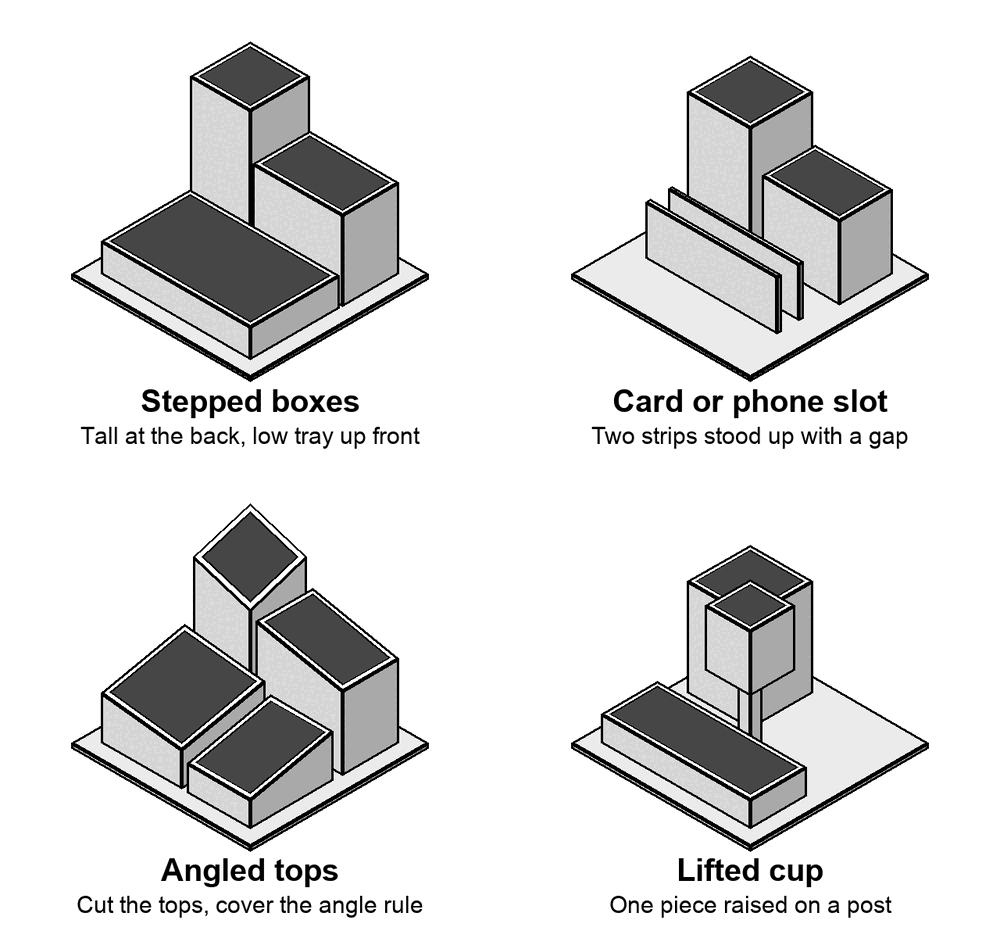
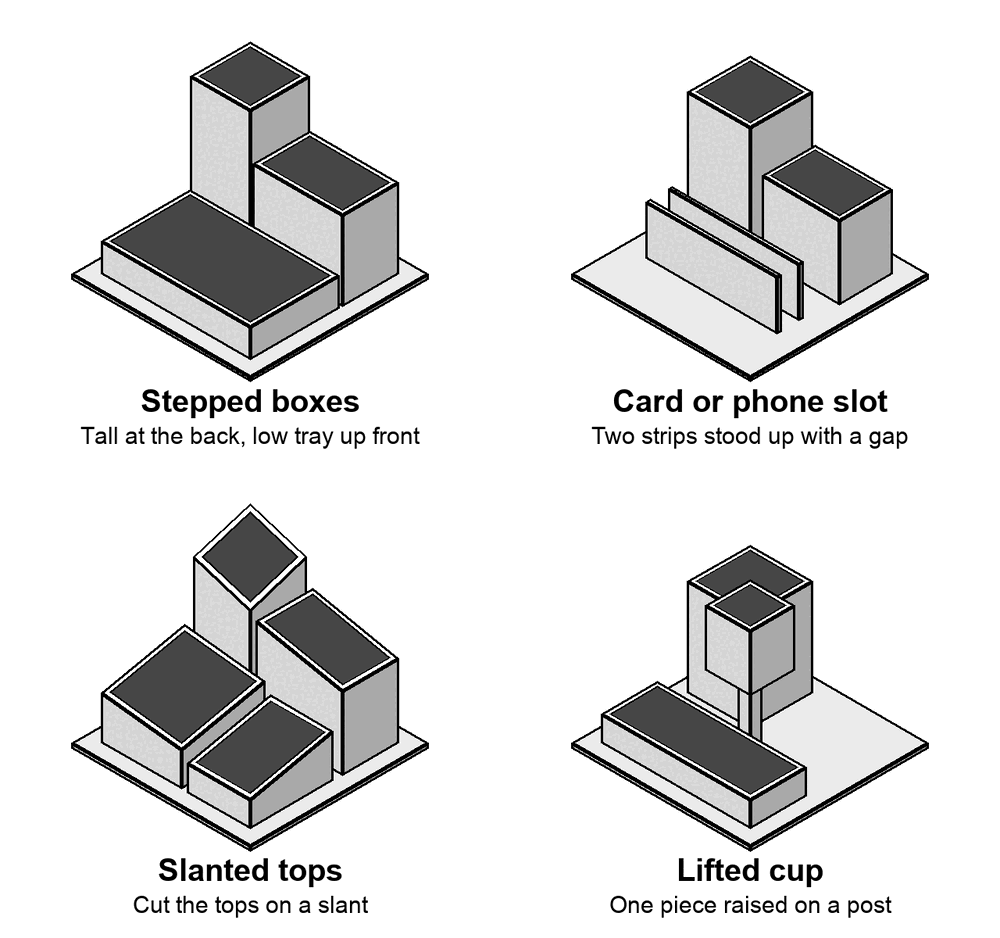
metals: Desk Organizer guide, angle rule removed and pruned (Andy 10/20)

Changed region(s): [[0.062, 0.8966, 0.434, 0.9893]]

diff --git a/metals/desk-organizer/index.html b/metals/desk-organizer/index.html
@@ -35,19 +35,18 @@ ul.steal .src { color: #777; font-size: 13px; }
 <ul>
 <li>Base plate: 10 to 12 gauge, 6 by 6 inches max, with about 1/2 inch showing past your pieces on every edge.</li>
 <li>At least 4 pieces standing on the base, at 3 or more different heights, rising from front to back.</li>
-<li>No more than 2 pieces the same height. At least 3 different cut angles.</li>
 <li>Flat bar and plate count. Build boxes, slots and trays from them. Tube is fine if you find it, but you don't need it. A coped round tube is a bonus.</li>
 <li>Scrap only, about 1/16 to 3/16 inch thick. No sheet metal. No galvanized steel: if it has a dull gray, spangled or white crusty coating, leave it and ask.</li>
 </ul>
 
 <h2>Ideas that work with flat stock</h2>
-<figure class="fig"><img src="ideas.png" alt="Four organizer ideas on a 6 by 6 base: stepped boxes, a card or phone slot made of two strips, boxes with angled tops, and a cup raised on a post." width="1000" height="938"><figcaption>Pick one idea from two different examples and put both in your design.</figcaption></figure>
+<figure class="fig"><img src="ideas.png" alt="Four organizer ideas on a 6 by 6 base: stepped boxes, a card or phone slot made of two strips, boxes with slanted tops, and a cup raised on a post." width="1000" height="938"><figcaption>Pick one idea from two different examples and put both in your design.</figcaption></figure>
 
 <h2>Steal from these</h2>
 <p>Real organizers people built. Each one opens on the maker's own page.</p>
 <ul class="steal">
 <li><a class="name" href="https://www.etsy.com/listing/4315612853/welded-steel-desk-organizer-industrial">Industrial pen holder</a><br>Three open boxes that share walls, tall at the back, a low tray in front. Shared walls mean fewer cuts and fewer welds. <span class="src">etsy.com</span></li>
-<li><a class="name" href="https://kr.pinterest.com/pin/650277633743133638/">Scrap metal project</a><br>Box tops cut at an angle. It covers the angle rule and makes plain boxes look designed. <span class="src">pinterest.com</span></li>
+<li><a class="name" href="https://kr.pinterest.com/pin/650277633743133638/">Scrap metal project</a><br>Box tops cut on a slant. It makes plain boxes look designed. <span class="src">pinterest.com</span></li>
 <li><a class="name" href="https://www.pinterest.com/pdxfire/desk/">Offset tower</a><br>One cup raised up and hung off the side of another. Height without a giant piece of stock. <span class="src">pinterest.com</span></li>
 <li><a class="name" href="https://www.pinterest.com/pin/steel-desk-organizer-pencil-and-business-card-holder--20055160824514403/">Pencil and card holder</a><br>Two short strips stood up with a gap make a slot for a phone or business cards. <span class="src">pinterest.com</span></li>
 <li><a class="name" href="https://maker-marketplace.com/l/207927/metal-desk-organizerbusiness-card-holder">Organizer with a cactus</a><br>A small cut-out shape welded in as decoration. A CNC drop with a cool outline counts. <span class="src">maker-marketplace.com</span></li>
@@ -65,14 +64,12 @@ ul.steal .src { color: #777; font-size: 13px; }
 <li><strong>Fillet weld.</strong> Where a wall stands on the base plate, the weld fills the inside corner. That joint is called a T joint.</li>
 <li><strong>Outside corner weld.</strong> Where two strips meet edge to edge at a box corner, the weld fills the notch on the outside. Grind it flush after.</li>
 <li><strong>Weld flat.</strong> Turn the part so the seam lies flat or runs across in front of you. Build each box lying on its side, then stand it on the base.</li>
-<li>You may hear the codes 1F and 2F. 1F is a fillet weld laid flat. 2F is a fillet weld run across a standing wall.</li>
 </ul>
 
 <h2>Order of work</h2>
 <ol>
 <li>Pick a partner. Design together, build your own.</li>
-<li>Pick your two ideas. Hunt the scrap bins and lay real pieces on the full size grid on your Plan Page.</li>
-<li>Fill in the Plan Page and cut list. Leave your pieces on it at your bench for initials.</li>
+<li>Pick your two ideas. Hunt the scrap bins, lay real pieces on the grid on your Plan Page, fill in the cut list, and leave it at your bench for initials.</li>
 <li>Cut every piece on the band saw.</li>
 <li>Build your boxes: tack, check square, weld the outside corners, grind flush.</li>
 <li>Cut the base plate. Tack each piece down, check it, then fillet weld it.</li>
